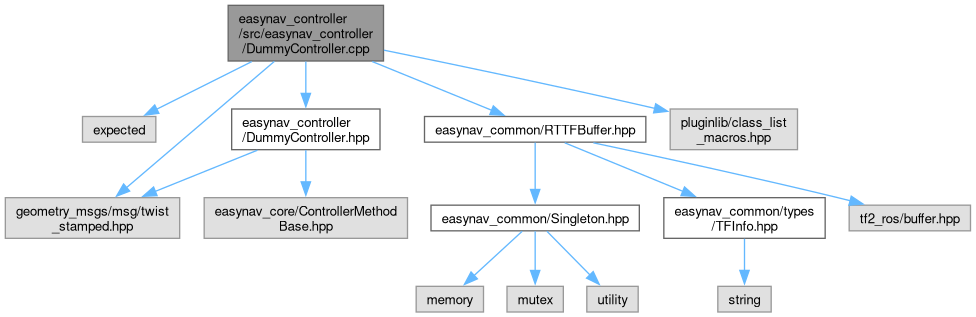
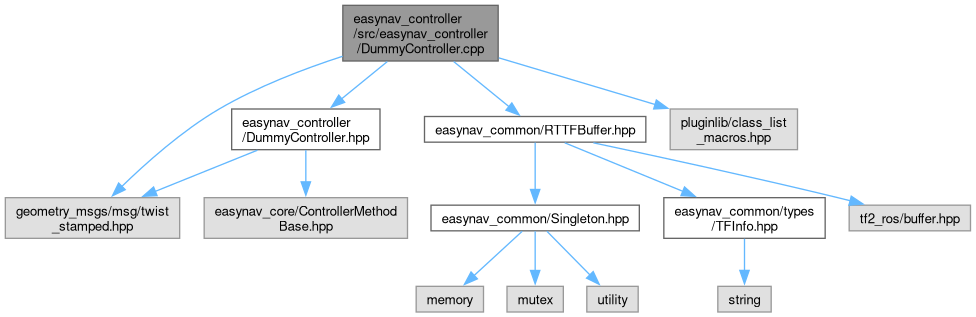
deploy: dc550e357de4cc89e07eb006674d49f7930d58b9

diff --git a/GoalManager_8hpp_source.html b/GoalManager_8hpp_source.html
@@ -217,17 +217,17 @@ $(function(){ initResizable(false); });
 <div class="line"><a id="l00189" name="l00189"></a><span class="lineno">  189</span> </div>
 <div class="line"><a id="l00190" name="l00190"></a><span class="lineno">  190</span><span class="preprocessor">#endif  </span><span class="comment">// EASYNAV_SYSTEM__GOALMANAGER_HPP_</span></div>
 <div class="ttc" id="aNavState_8hpp_html"><div class="ttname"><a href="NavState_8hpp.html">NavState.hpp</a></div><div class="ttdoc">A blackboard-like structure to hold the current state of the navigation system.</div></div>
-<div class="ttc" id="aclasseasynav_1_1GoalManager_html_a2ca06ddb77a58406986fb74980981fc5"><div class="ttname"><a href="classeasynav_1_1GoalManager.html#a2ca06ddb77a58406986fb74980981fc5">easynav::GoalManager::update</a></div><div class="ttdeci">void update(NavState &amp;nav_state)</div><div class="ttdoc">Update internal logic, including preemption and timeout checks.</div><div class="ttdef"><b>Definition</b> GoalManager.cpp:315</div></div>
+<div class="ttc" id="aclasseasynav_1_1GoalManager_html_a2ca06ddb77a58406986fb74980981fc5"><div class="ttname"><a href="classeasynav_1_1GoalManager.html#a2ca06ddb77a58406986fb74980981fc5">easynav::GoalManager::update</a></div><div class="ttdeci">void update(NavState &amp;nav_state)</div><div class="ttdoc">Update internal logic, including preemption and timeout checks.</div><div class="ttdef"><b>Definition</b> GoalManager.cpp:314</div></div>
 <div class="ttc" id="aclasseasynav_1_1GoalManager_html_a359cd66ef7d1c77e72245ad7e592c993"><div class="ttname"><a href="classeasynav_1_1GoalManager.html#a359cd66ef7d1c77e72245ad7e592c993">easynav::GoalManager::get_goals</a></div><div class="ttdeci">nav_msgs::msg::Goals get_goals() const</div><div class="ttdoc">Get current goals.</div><div class="ttdef"><b>Definition</b> GoalManager.hpp:89</div></div>
-<div class="ttc" id="aclasseasynav_1_1GoalManager_html_a431494d38c4bec253ced0cfbe66960d5"><div class="ttname"><a href="classeasynav_1_1GoalManager.html#a431494d38c4bec253ced0cfbe66960d5">easynav::GoalManager::GoalManager</a></div><div class="ttdeci">GoalManager(NavState &amp;nav_state, rclcpp_lifecycle::LifecycleNode::SharedPtr parent_node)</div><div class="ttdoc">Constructor.</div><div class="ttdef"><b>Definition</b> GoalManager.cpp:77</div></div>
-<div class="ttc" id="aclasseasynav_1_1GoalManager_html_a4401bd0ec06534a826ad07b558390774"><div class="ttname"><a href="classeasynav_1_1GoalManager.html#a4401bd0ec06534a826ad07b558390774">easynav::GoalManager::set_finished</a></div><div class="ttdeci">void set_finished()</div><div class="ttdoc">Mark the current goal as successfully completed.</div><div class="ttdef"><b>Definition</b> GoalManager.cpp:247</div></div>
+<div class="ttc" id="aclasseasynav_1_1GoalManager_html_a431494d38c4bec253ced0cfbe66960d5"><div class="ttname"><a href="classeasynav_1_1GoalManager.html#a431494d38c4bec253ced0cfbe66960d5">easynav::GoalManager::GoalManager</a></div><div class="ttdeci">GoalManager(NavState &amp;nav_state, rclcpp_lifecycle::LifecycleNode::SharedPtr parent_node)</div><div class="ttdoc">Constructor.</div><div class="ttdef"><b>Definition</b> GoalManager.cpp:76</div></div>
+<div class="ttc" id="aclasseasynav_1_1GoalManager_html_a4401bd0ec06534a826ad07b558390774"><div class="ttname"><a href="classeasynav_1_1GoalManager.html#a4401bd0ec06534a826ad07b558390774">easynav::GoalManager::set_finished</a></div><div class="ttdeci">void set_finished()</div><div class="ttdoc">Mark the current goal as successfully completed.</div><div class="ttdef"><b>Definition</b> GoalManager.cpp:246</div></div>
 <div class="ttc" id="aclasseasynav_1_1GoalManager_html_a5d74787dedbc4e11c1ab15bf487e61f8"><div class="ttname"><a href="classeasynav_1_1GoalManager.html#a5d74787dedbc4e11c1ab15bf487e61f8">easynav::GoalManager::State</a></div><div class="ttdeci">State</div><div class="ttdoc">Current internal goal state.</div><div class="ttdef"><b>Definition</b> GoalManager.hpp:57</div></div>
 <div class="ttc" id="aclasseasynav_1_1GoalManager_html_a5d74787dedbc4e11c1ab15bf487e61f8a18ff74f43da410c5529f7d6fca84f115"><div class="ttname"><a href="classeasynav_1_1GoalManager.html#a5d74787dedbc4e11c1ab15bf487e61f8a18ff74f43da410c5529f7d6fca84f115">easynav::GoalManager::State::ACTIVE</a></div><div class="ttdeci">@ ACTIVE</div><div class="ttdoc">A goal is currently being pursued.</div><div class="ttdef"><b>Definition</b> GoalManager.hpp:59</div></div>
 <div class="ttc" id="aclasseasynav_1_1GoalManager_html_a5d74787dedbc4e11c1ab15bf487e61f8aa5daf7f2ebbba4975d61dab1c40188c7"><div class="ttname"><a href="classeasynav_1_1GoalManager.html#a5d74787dedbc4e11c1ab15bf487e61f8aa5daf7f2ebbba4975d61dab1c40188c7">easynav::GoalManager::State::IDLE</a></div><div class="ttdeci">@ IDLE</div><div class="ttdoc">No active goal.</div><div class="ttdef"><b>Definition</b> GoalManager.hpp:58</div></div>
-<div class="ttc" id="aclasseasynav_1_1GoalManager_html_a80f7c2db5701e01e05b2cedd201475ca"><div class="ttname"><a href="classeasynav_1_1GoalManager.html#a80f7c2db5701e01e05b2cedd201475ca">easynav::GoalManager::set_error</a></div><div class="ttdeci">void set_error(const std::string &amp;reason)</div><div class="ttdoc">Mark the system as in error state.</div><div class="ttdef"><b>Definition</b> GoalManager.cpp:265</div></div>
-<div class="ttc" id="aclasseasynav_1_1GoalManager_html_a973640b1dd03b7f94e17869bd6fe2716"><div class="ttname"><a href="classeasynav_1_1GoalManager.html#a973640b1dd03b7f94e17869bd6fe2716">easynav::GoalManager::check_goals</a></div><div class="ttdeci">void check_goals(const geometry_msgs::msg::Pose &amp;current_pose, const GoalTolerance &amp;goal_tolerance)</div><div class="ttdoc">Check if the robot is currently at the first goal.</div><div class="ttdef"><b>Definition</b> GoalManager.cpp:396</div></div>
+<div class="ttc" id="aclasseasynav_1_1GoalManager_html_a80f7c2db5701e01e05b2cedd201475ca"><div class="ttname"><a href="classeasynav_1_1GoalManager.html#a80f7c2db5701e01e05b2cedd201475ca">easynav::GoalManager::set_error</a></div><div class="ttdeci">void set_error(const std::string &amp;reason)</div><div class="ttdoc">Mark the system as in error state.</div><div class="ttdef"><b>Definition</b> GoalManager.cpp:264</div></div>
+<div class="ttc" id="aclasseasynav_1_1GoalManager_html_a973640b1dd03b7f94e17869bd6fe2716"><div class="ttname"><a href="classeasynav_1_1GoalManager.html#a973640b1dd03b7f94e17869bd6fe2716">easynav::GoalManager::check_goals</a></div><div class="ttdeci">void check_goals(const geometry_msgs::msg::Pose &amp;current_pose, const GoalTolerance &amp;goal_tolerance)</div><div class="ttdoc">Check if the robot is currently at the first goal.</div><div class="ttdef"><b>Definition</b> GoalManager.cpp:395</div></div>
 <div class="ttc" id="aclasseasynav_1_1GoalManager_html_ab9991f968ed0004142db909407daf154"><div class="ttname"><a href="classeasynav_1_1GoalManager.html#ab9991f968ed0004142db909407daf154">easynav::GoalManager::get_state</a></div><div class="ttdeci">State get_state() const</div><div class="ttdoc">Get current internal goal state.</div><div class="ttdef"><b>Definition</b> GoalManager.hpp:95</div></div>
-<div class="ttc" id="aclasseasynav_1_1GoalManager_html_aba0b434a98a49412f596d6436137a62e"><div class="ttname"><a href="classeasynav_1_1GoalManager.html#aba0b434a98a49412f596d6436137a62e">easynav::GoalManager::set_failed</a></div><div class="ttdeci">void set_failed(const std::string &amp;reason)</div><div class="ttdoc">Mark the current goal as failed.</div><div class="ttdef"><b>Definition</b> GoalManager.cpp:283</div></div>
+<div class="ttc" id="aclasseasynav_1_1GoalManager_html_aba0b434a98a49412f596d6436137a62e"><div class="ttname"><a href="classeasynav_1_1GoalManager.html#aba0b434a98a49412f596d6436137a62e">easynav::GoalManager::set_failed</a></div><div class="ttdeci">void set_failed(const std::string &amp;reason)</div><div class="ttdoc">Mark the current goal as failed.</div><div class="ttdef"><b>Definition</b> GoalManager.cpp:282</div></div>
 <div class="ttc" id="aclasseasynav_1_1NavState_html"><div class="ttname"><a href="classeasynav_1_1NavState.html">easynav::NavState</a></div><div class="ttdoc">A generic, type-safe, thread-safe blackboard to hold runtime state.</div><div class="ttdef"><b>Definition</b> NavState.hpp:87</div></div>
 <div class="ttc" id="anamespaceeasynav_html"><div class="ttname"><a href="namespaceeasynav.html">easynav</a></div><div class="ttdef"><b>Definition</b> CircularBuffer.hpp:28</div></div>
 <div class="ttc" id="astructeasynav_1_1GoalManager_1_1GoalTolerance_html"><div class="ttname"><a href="structeasynav_1_1GoalManager_1_1GoalTolerance.html">easynav::GoalManager::GoalTolerance</a></div><div class="ttdoc">A structure to represent the goal tolerances.</div><div class="ttdef"><b>Definition</b> GoalManager.hpp:67</div></div>

diff --git a/DummyController_8hpp_source.html b/DummyController_8hpp_source.html
@@ -143,9 +143,9 @@ $(function(){ initResizable(false); });
 <div class="line"><a id="l00073" name="l00073"></a><span class="lineno">   73</span>}  <span class="comment">// namespace easynav</span></div>
 <div class="line"><a id="l00074" name="l00074"></a><span class="lineno">   74</span> </div>
 <div class="line"><a id="l00075" name="l00075"></a><span class="lineno">   75</span><span class="preprocessor">#endif  </span><span class="comment">// EASYNAV_CONTROLLER__DUMMYCONTROLLER_HPP_</span></div>
-<div class="ttc" id="aclasseasynav_1_1DummyController_html_a6ed380ba537bbe9a85710810db50a95c"><div class="ttname"><a href="classeasynav_1_1DummyController.html#a6ed380ba537bbe9a85710810db50a95c">easynav::DummyController::update_rt</a></div><div class="ttdeci">virtual void update_rt(NavState &amp;nav_state) override</div><div class="ttdoc">Run the control method and update the control command.</div><div class="ttdef"><b>Definition</b> DummyController.cpp:41</div></div>
+<div class="ttc" id="aclasseasynav_1_1DummyController_html_a6ed380ba537bbe9a85710810db50a95c"><div class="ttname"><a href="classeasynav_1_1DummyController.html#a6ed380ba537bbe9a85710810db50a95c">easynav::DummyController::update_rt</a></div><div class="ttdeci">virtual void update_rt(NavState &amp;nav_state) override</div><div class="ttdoc">Run the control method and update the control command.</div><div class="ttdef"><b>Definition</b> DummyController.cpp:39</div></div>
 <div class="ttc" id="aclasseasynav_1_1DummyController_html_a826dfe8d04169cb82d9f072809c1b5a8"><div class="ttname"><a href="classeasynav_1_1DummyController.html#a826dfe8d04169cb82d9f072809c1b5a8">easynav::DummyController::~DummyController</a></div><div class="ttdeci">~DummyController()=default</div></div>
-<div class="ttc" id="aclasseasynav_1_1DummyController_html_ac9d1795b6cf8a4da7bf9b33f783db911"><div class="ttname"><a href="classeasynav_1_1DummyController.html#ac9d1795b6cf8a4da7bf9b33f783db911">easynav::DummyController::on_initialize</a></div><div class="ttdeci">virtual void on_initialize() override</div><div class="ttdoc">Initializes the control method plugin.</div><div class="ttdef"><b>Definition</b> DummyController.cpp:32</div></div>
+<div class="ttc" id="aclasseasynav_1_1DummyController_html_ac9d1795b6cf8a4da7bf9b33f783db911"><div class="ttname"><a href="classeasynav_1_1DummyController.html#ac9d1795b6cf8a4da7bf9b33f783db911">easynav::DummyController::on_initialize</a></div><div class="ttdeci">virtual void on_initialize() override</div><div class="ttdoc">Initializes the control method plugin.</div><div class="ttdef"><b>Definition</b> DummyController.cpp:30</div></div>
 <div class="ttc" id="aclasseasynav_1_1DummyController_html_af7ac7ec07d3c63ff4f77f19543350c9f"><div class="ttname"><a href="classeasynav_1_1DummyController.html#af7ac7ec07d3c63ff4f77f19543350c9f">easynav::DummyController::DummyController</a></div><div class="ttdeci">DummyController()=default</div></div>
 <div class="ttc" id="aclasseasynav_1_1NavState_html"><div class="ttname"><a href="classeasynav_1_1NavState.html">easynav::NavState</a></div><div class="ttdoc">A generic, type-safe, thread-safe blackboard to hold runtime state.</div><div class="ttdef"><b>Definition</b> NavState.hpp:87</div></div>
 <div class="ttc" id="anamespaceeasynav_html"><div class="ttname"><a href="namespaceeasynav.html">easynav</a></div><div class="ttdef"><b>Definition</b> CircularBuffer.hpp:28</div></div>

diff --git a/DummyController_8cpp.html b/DummyController_8cpp.html
@@ -96,8 +96,7 @@ $(function(){ initResizable(false); });
 
 <p>Implementation of the DummyController class.  
 <a href="#details">More...</a></p>
-<div class="textblock"><code>#include &lt;expected&gt;</code><br />
-<code>#include &quot;<a class="el" href="DummyController_8hpp_source.html">easynav_controller/DummyController.hpp</a>&quot;</code><br />
+<div class="textblock"><code>#include &quot;<a class="el" href="DummyController_8hpp_source.html">easynav_controller/DummyController.hpp</a>&quot;</code><br />
 <code>#include &quot;geometry_msgs/msg/twist_stamped.hpp&quot;</code><br />
 <code>#include &quot;<a class="el" href="RTTFBuffer_8hpp_source.html">easynav_common/RTTFBuffer.hpp</a>&quot;</code><br />
 <code>#include &lt;pluginlib/class_list_macros.hpp&gt;</code><br />
@@ -106,17 +105,15 @@ Include dependency graph for DummyController.cpp:</div>
 <div class="dyncontent">
 <div class="center"><img src="DummyController_8cpp__incl.png" border="0" usemap="#aeasynav__controller_2src_2easynav__controller_2DummyController_8cpp" alt=""/></div>
 <map name="aeasynav__controller_2src_2easynav__controller_2DummyController_8cpp" id="aeasynav__controller_2src_2easynav__controller_2DummyController_8cpp">
-<area shape="rect" title="Implementation of the DummyController class." alt="" coords="228,5,384,61"/>
-<area shape="rect" title=" " alt="" coords="82,116,156,142"/>
-<area shape="poly" title=" " alt="" coords="253,64,158,112,156,107,251,59"/>
+<area shape="rect" title="Implementation of the DummyController class." alt="" coords="343,5,498,61"/>
 <area shape="rect" href="DummyController_8hpp.html" title="Declaration of the DummyController method." alt="" coords="232,109,380,150"/>
-<area shape="poly" title=" " alt="" coords="308,62,308,94,303,94,303,62"/>
+<area shape="poly" title=" " alt="" coords="389,64,343,101,340,97,386,59"/>
 <area shape="rect" title=" " alt="" coords="5,198,180,238"/>
-<area shape="poly" title=" " alt="" coords="276,63,128,190,124,186,273,59"/>
+<area shape="poly" title=" " alt="" coords="344,59,282,81,221,111,167,149,123,189,119,185,164,145,218,107,280,76,342,54"/>
 <area shape="rect" href="RTTFBuffer_8hpp.html" title=" " alt="" coords="424,116,646,142"/>
-<area shape="poly" title=" " alt="" coords="373,59,493,108,491,113,371,64"/>
+<area shape="poly" title=" " alt="" coords="455,59,511,105,508,109,452,64"/>
 <area shape="rect" title=" " alt="" coords="670,109,798,150"/>
-<area shape="poly" title=" " alt="" coords="385,48,655,106,654,111,383,53"/>
+<area shape="poly" title=" " alt="" coords="500,55,656,102,655,107,498,60"/>
 <area shape="poly" title=" " alt="" coords="258,153,156,194,154,189,256,148"/>
 <area shape="rect" title=" " alt="" coords="204,198,408,238"/>
 <area shape="poly" title=" " alt="" coords="308,150,308,182,303,182,303,150"/>

diff --git a/GoalManager_8cpp.html b/GoalManager_8cpp.html
@@ -97,7 +97,7 @@ $(function(){ initResizable(false); });
 
 <p>Implementation of the GoalManager class.  
 <a href="#details">More...</a></p>
-<div class="textblock"><code>#include &lt;numbers&gt;</code><br />
+<div class="textblock"><code>#include &lt;cmath&gt;</code><br />
 <code>#include &quot;tf2_geometry_msgs/tf2_geometry_msgs.hpp&quot;</code><br />
 <code>#include &quot;tf2/utils.hpp&quot;</code><br />
 <code>#include &quot;nav_msgs/msg/odometry.hpp&quot;</code><br />
@@ -108,8 +108,8 @@ Include dependency graph for GoalManager.cpp:</div>
 <div class="center"><img src="GoalManager_8cpp__incl.png" border="0" usemap="#aeasynav__system_2src_2easynav__system_2GoalManager_8cpp" alt=""/></div>
 <map name="aeasynav__system_2src_2easynav__system_2GoalManager_8cpp" id="aeasynav__system_2src_2easynav__system_2GoalManager_8cpp">
 <area shape="rect" title="Implementation of the GoalManager class." alt="" coords="262,5,490,46"/>
-<area shape="rect" title=" " alt="" coords="58,102,129,127"/>
-<area shape="poly" title=" " alt="" coords="301,49,142,97,137,98,136,93,140,91,299,44"/>
+<area shape="rect" title=" " alt="" coords="72,102,130,127"/>
+<area shape="poly" title=" " alt="" coords="296,49,220,70,142,97,140,97,138,92,140,91,219,65,294,44"/>
 <area shape="rect" title=" " alt="" coords="153,94,308,135"/>
 <area shape="poly" title=" " alt="" coords="344,49,278,88,275,84,341,44"/>
 <area shape="rect" title=" " alt="" coords="332,102,420,127"/>
